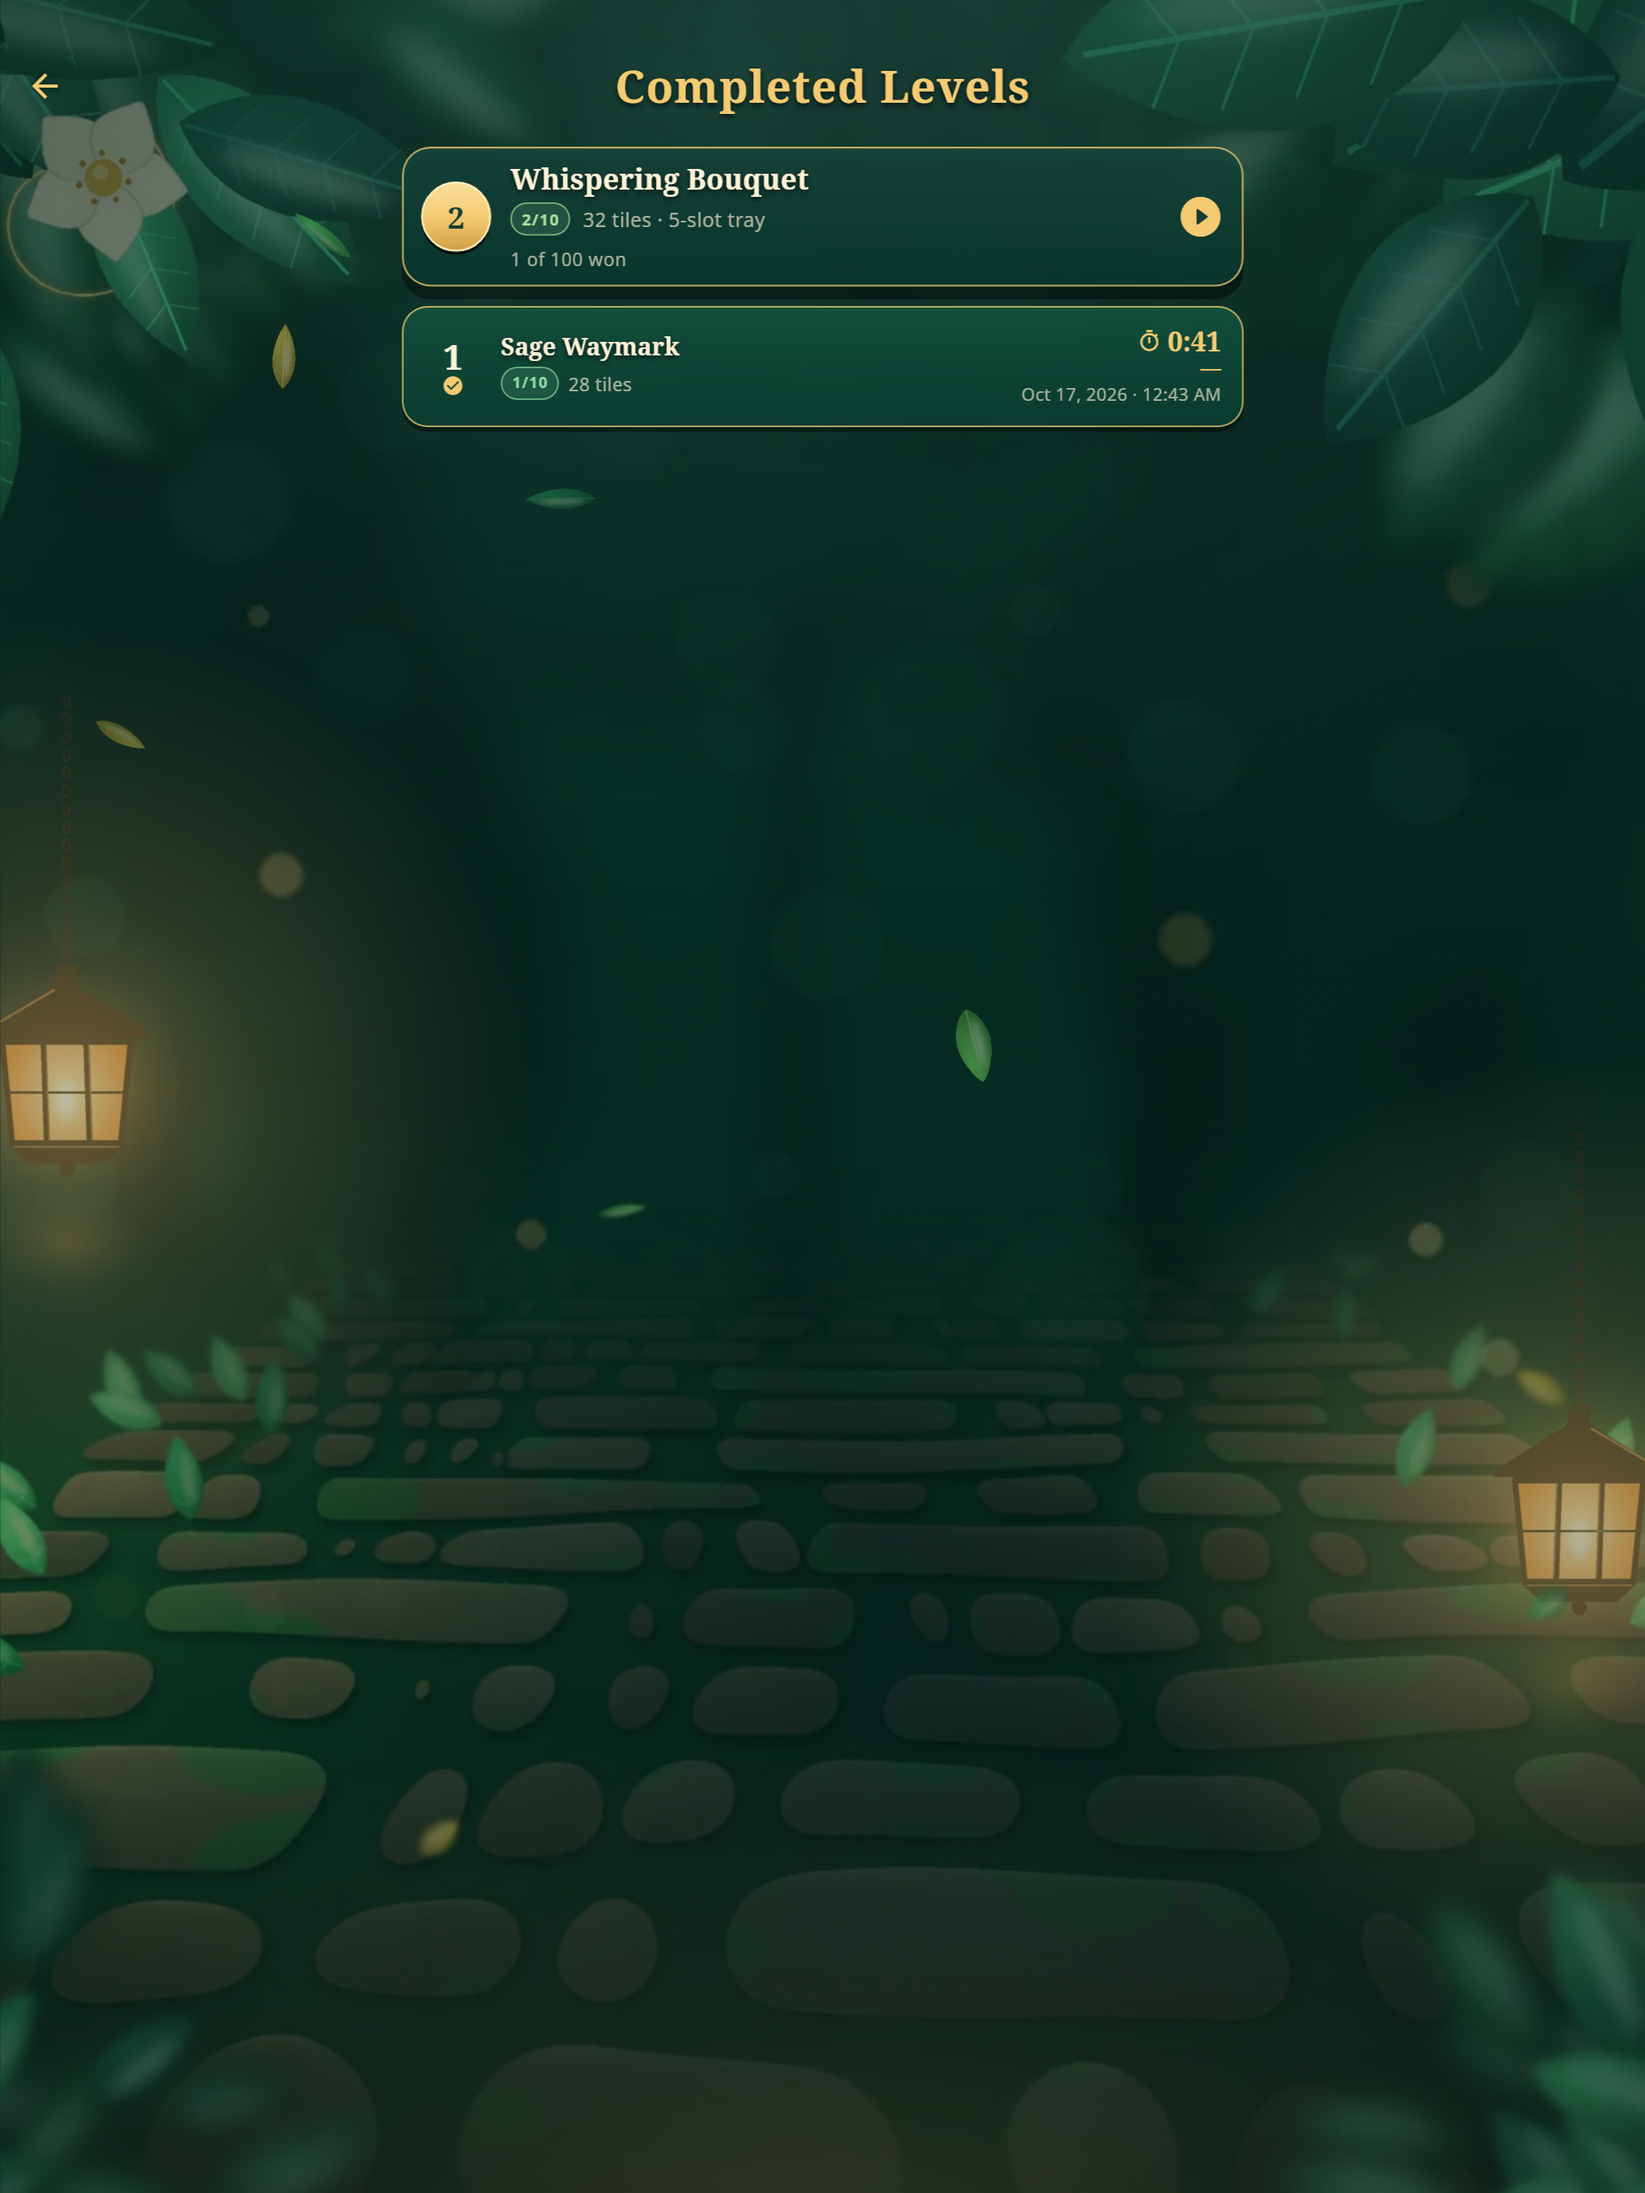
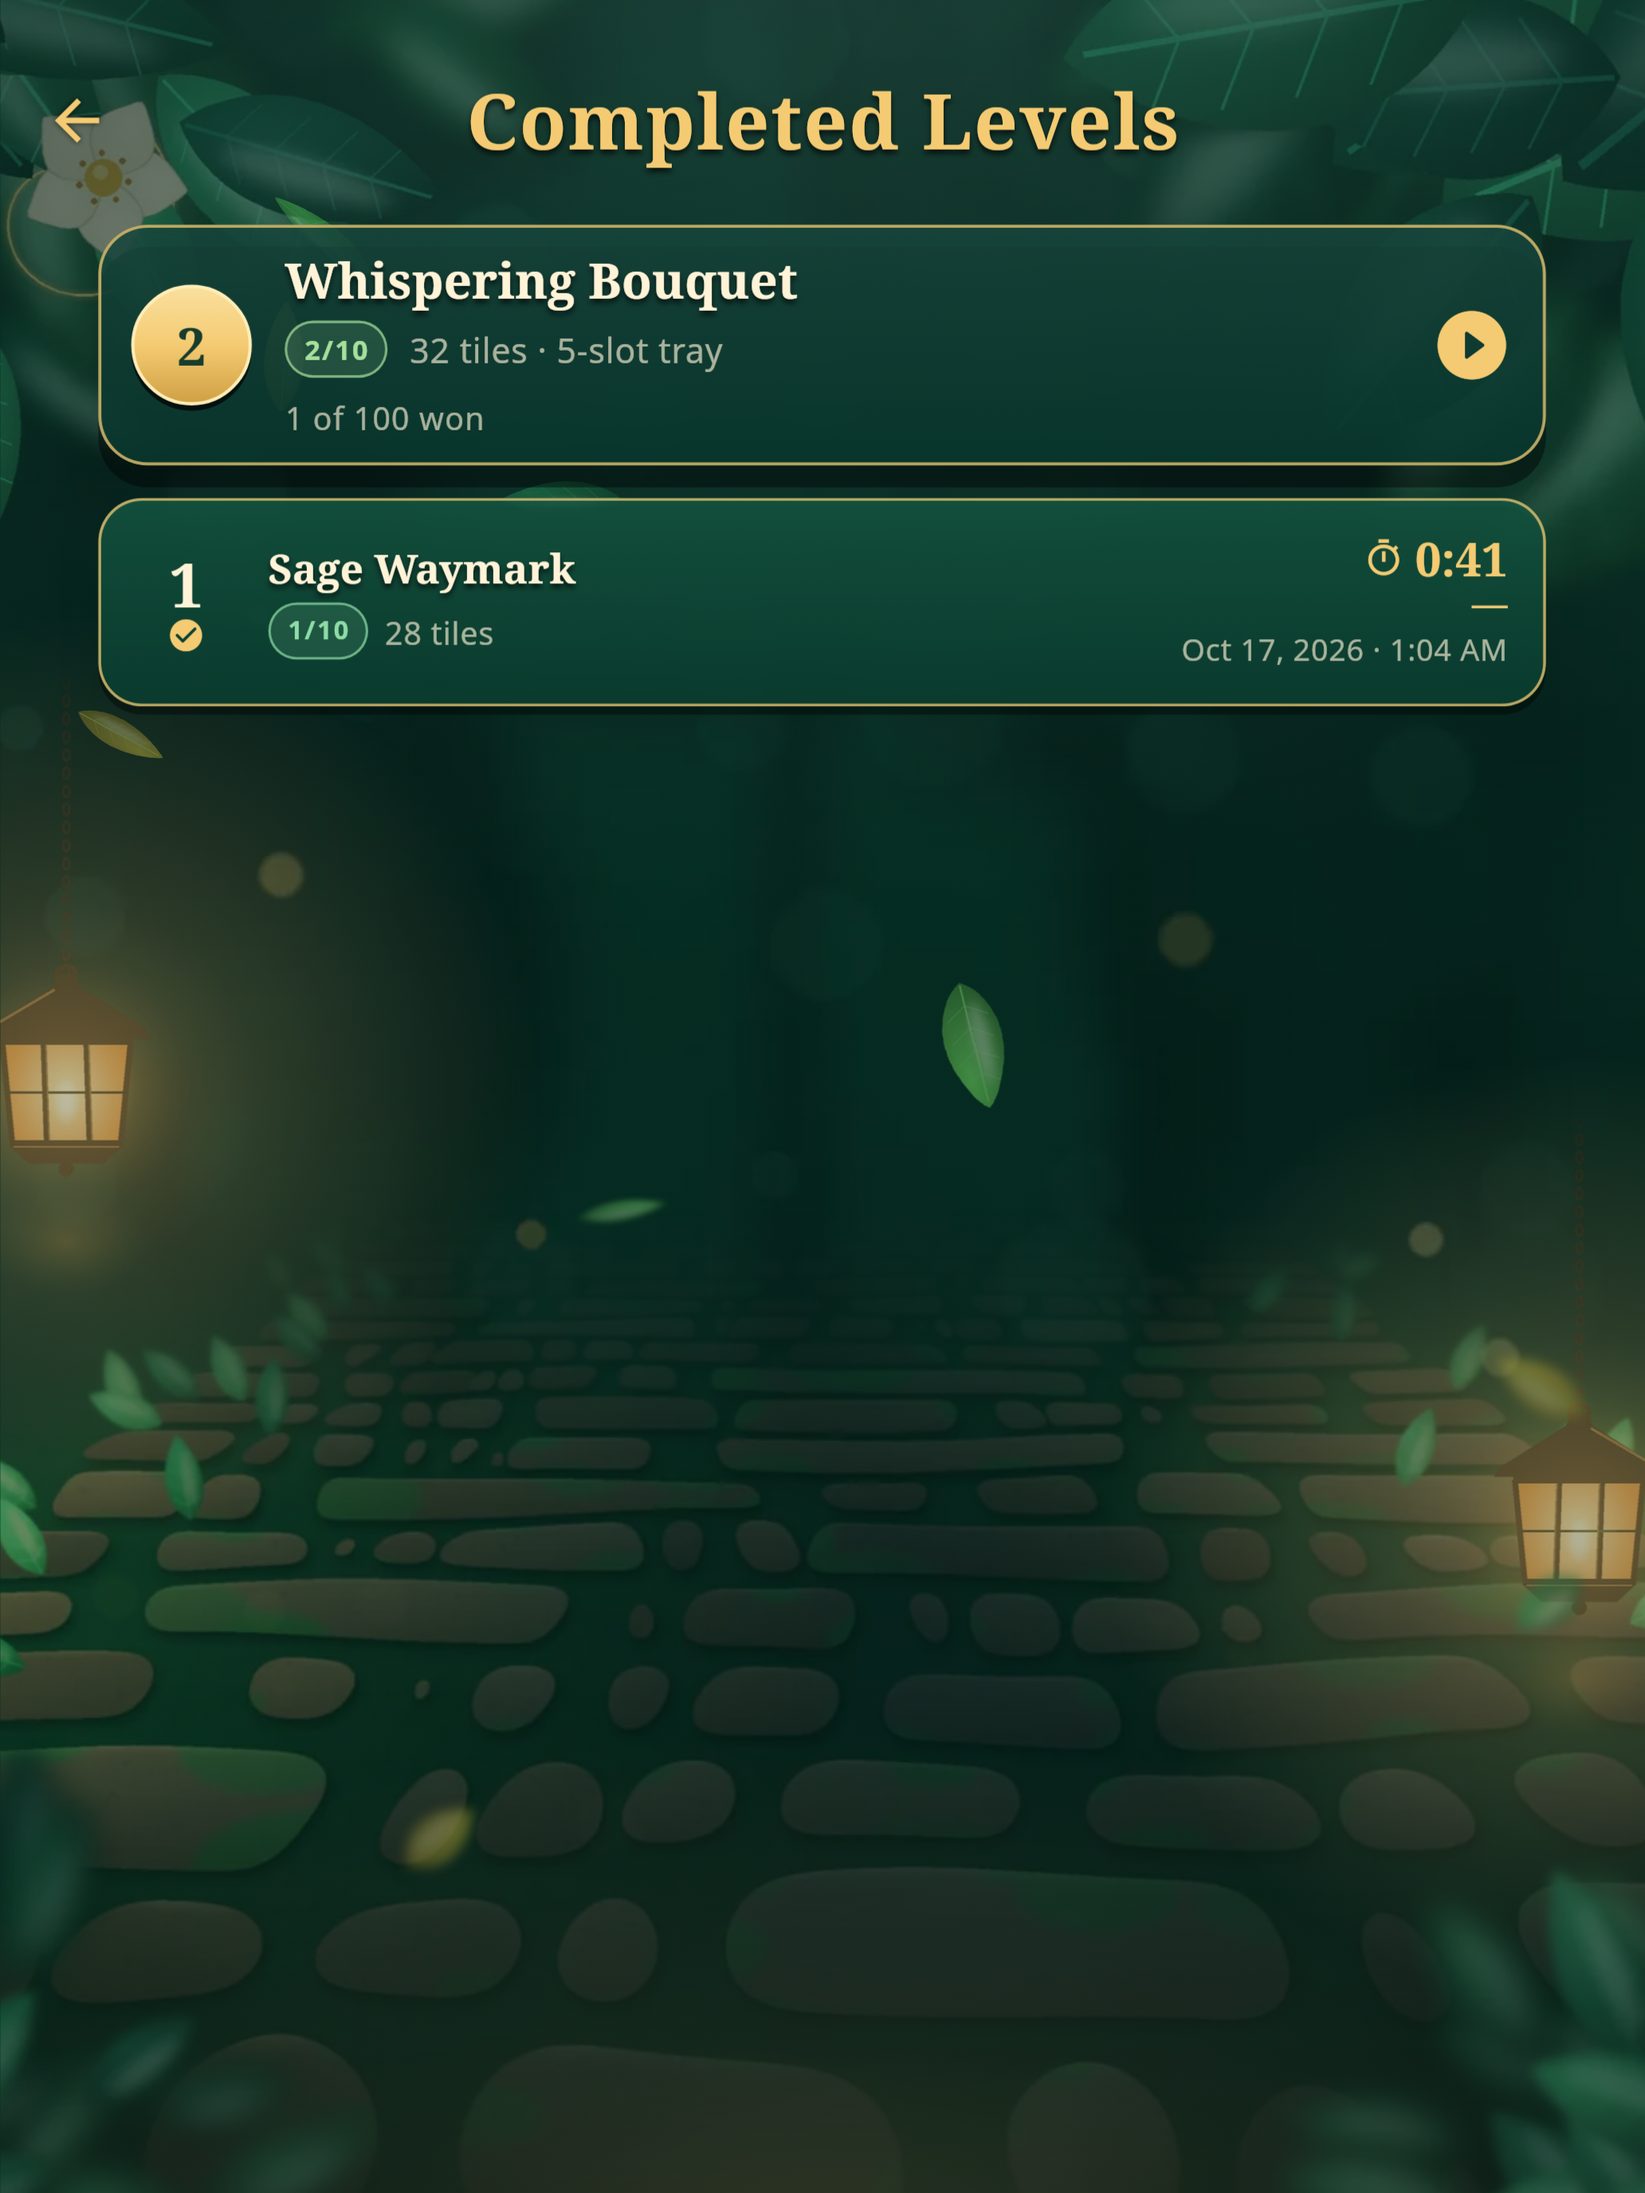
iPad screenshots with TabletScale; test shells scale like the app
lobby_support and gameplay_capture_test wrap MaterialApp in TabletScale like
the app, so tablet captures show the scaled UI. Raw and styled iPad 13"
screenshots regenerated (tray, HUD, cards and lobby buttons now sized for
the screen); phone and iPhone images unchanged.

diff --git a/test/features/lobby_support.dart b/test/features/lobby_support.dart
@@ -27,6 +27,7 @@ import 'package:http/http.dart' as http;
 import 'package:http/testing.dart';
 
 import '../helpers.dart';
+import 'package:brain_train/app/tablet_scale.dart';
 
 /// Services on the bundled content with the network unreachable (or
 /// answered by [client]).
@@ -131,7 +132,13 @@ Future<void> pumpLobby(
       key: lobbyBoundary,
       child: AppScope(
         services: services,
-        child: MaterialApp(debugShowCheckedModeBanner: false, theme: buildBrainTrainTheme(), home: home),
+        child: MaterialApp(
+          debugShowCheckedModeBanner: false,
+          theme: buildBrainTrainTheme(),
+          // Like the app: tablets scale the UI from a 600-px canvas.
+          builder: (context, child) => TabletScale(child: child!),
+          home: home,
+        ),
       ),
     ),
   );

diff --git a/test/visual/gameplay_capture_test.dart b/test/visual/gameplay_capture_test.dart
@@ -48,6 +48,7 @@ import '../helpers.dart';
 import '../helpers/fake_stopwatch.dart';
 import '../platform/fake_rewarded_ads.dart';
 import 'gameplay_support.dart';
+import 'package:brain_train/app/tablet_scale.dart';
 
 final String? _captureDir = Platform.environment['CAPTURE_DIR'];
 
@@ -150,6 +151,7 @@ Future<void> _pumpGame(
         child: MaterialApp(
           debugShowCheckedModeBanner: false,
           theme: buildBrainTrainTheme(Brightness.dark),
+          builder: (context, child) => TabletScale(child: child!),
           home: GameScreen(snapshot: services.content.snapshot, entry: entry, resume: resume, stopwatch: stopwatch),
         ),
       ),
